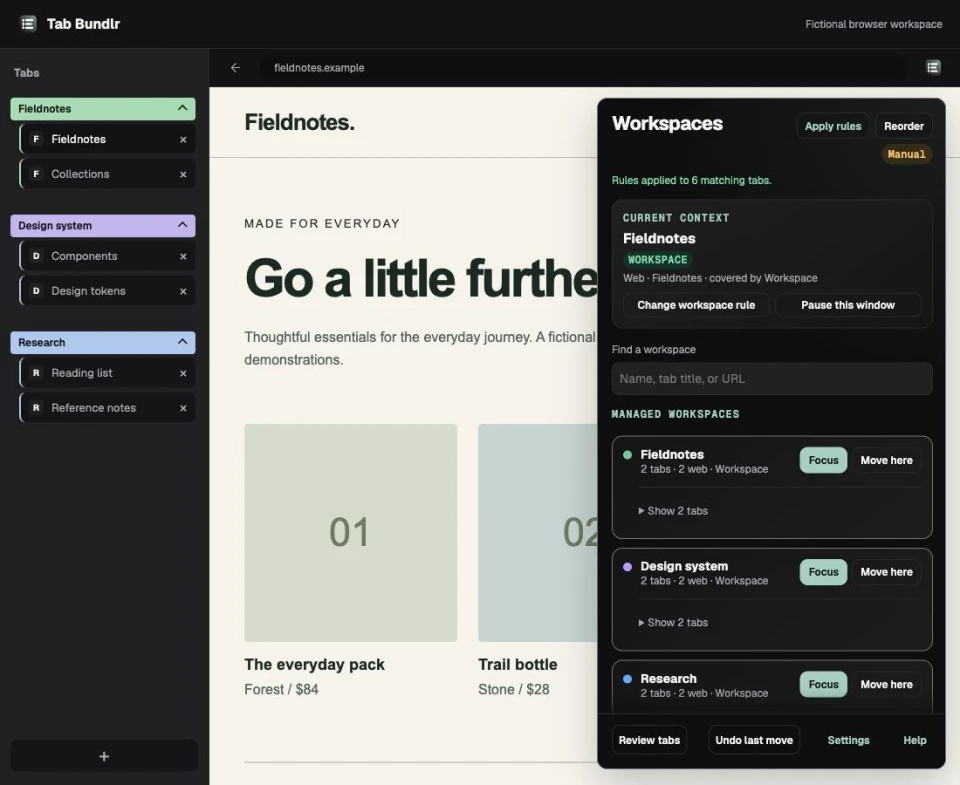
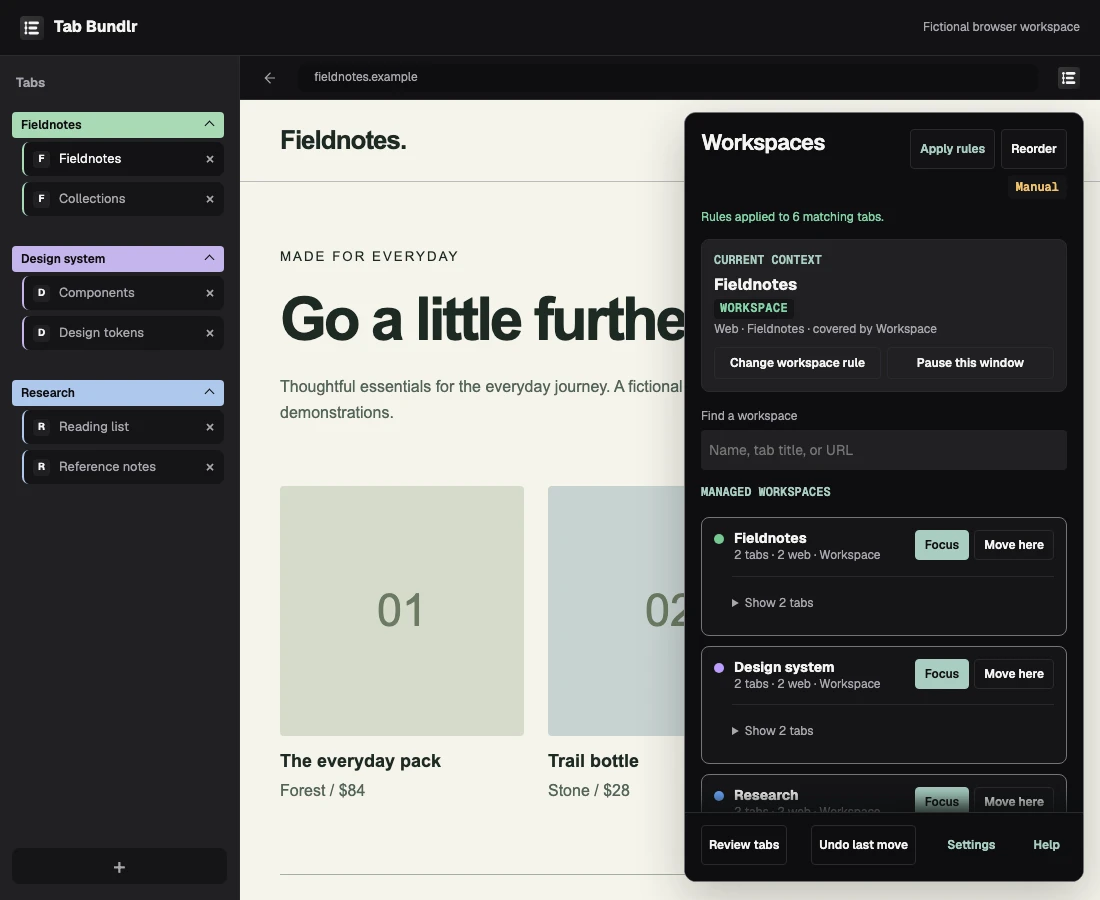
Refresh actual-interface snapshots and document visual review

diff --git a/docs/app-stylr-v1.4.1.md b/docs/app-stylr-v1.4.1.md
@@ -7,3 +7,11 @@ The generated adapter owns semantic colors, Geist typography, 4px control/button
 Run `npm ci`, `npm run styles`, `npm test`, and the documented package command. `npm run styles:check` verifies committed generated assets against the installed immutable package. Downloaded extension packages do not require Node or npm dependencies.
 
 Fresh rendered review, capture provenance and installed-browser coverage are recorded separately. Automated tests and an isolated browser API fixture do not establish installed Chrome permissions, service-worker lifecycle or release acceptance. Follow [the release guide](releases.md) before publication.
+
+## Local candidate evidence, November 5, 2026
+
+The final source suite passed 124 tests with the generated-source check. Local version 1.1.0 packages passed ZIP integrity checks and include only their runtime allowlists. The candidate is not published.
+
+Rendered review covered the popup, rule dialog, desktop and 390px settings, review, help and diagnostics. The actual popup and URL matcher grouped six fictional tabs into three workspaces; Undo restored the fixture state and Escape dismissed the rule dialog. The isolated adapter uses fictional data and does not establish installed-browser or native permission acceptance. Product-scoped automated accessibility checks reported no WCAG A/AA violations in the sampled rendered states.
+
+The [fresh still](images/app-preview.webp), [animation](images/app-preview.gif) and [provenance](images/app-preview.provenance.json) identify the captured source revision, dimensions, hashes and coverage limits. Complete the installed-browser release guide before publication.

diff --git a/README.md b/README.md
@@ -10,7 +10,7 @@ It is a local-first Manifest V3 Chrome extension. No account, hosted profile, cl
 
 <img src="docs/images/app-preview.gif" width="640" alt="Tab Bundlr grouping fictional tabs into Fieldnotes, Design system, and Research workspaces in an illustrated vertical browser sidebar">
 
-App preview with demo data. The browser sidebar is an illustration. [App overview](https://kylbutlr.com/apps/tab-bundlr). [Still image](docs/images/app-preview.webp).
+App preview of the unpublished 1.1.0 refresh candidate with demo data. The browser sidebar is an illustration. [App overview](https://kylbutlr.com/apps/tab-bundlr). [Still image](docs/images/app-preview.webp). [Capture provenance](docs/images/app-preview.provenance.json).
 
 ## Status
 
